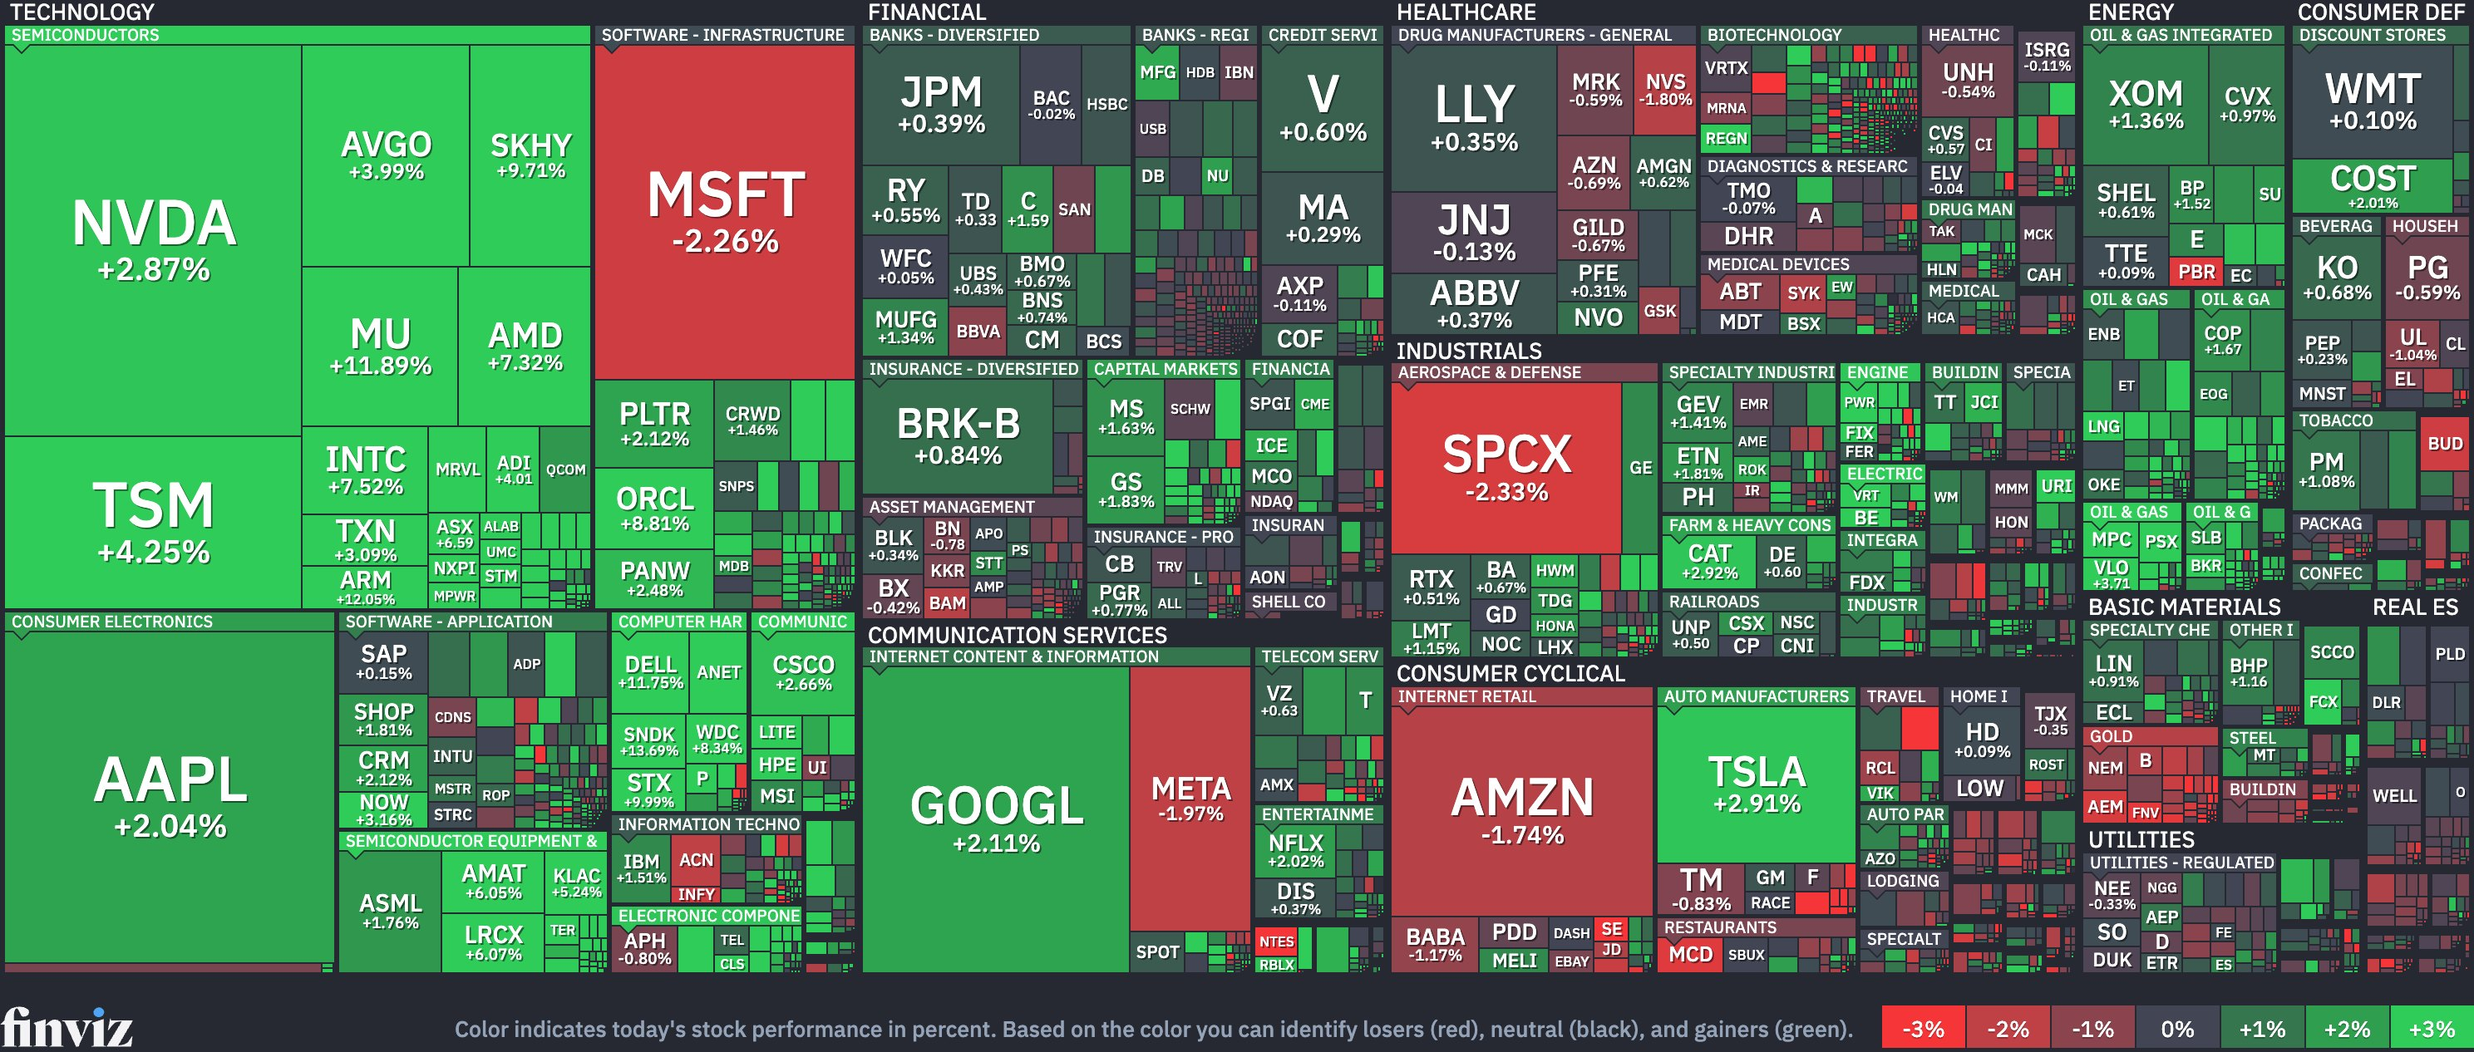
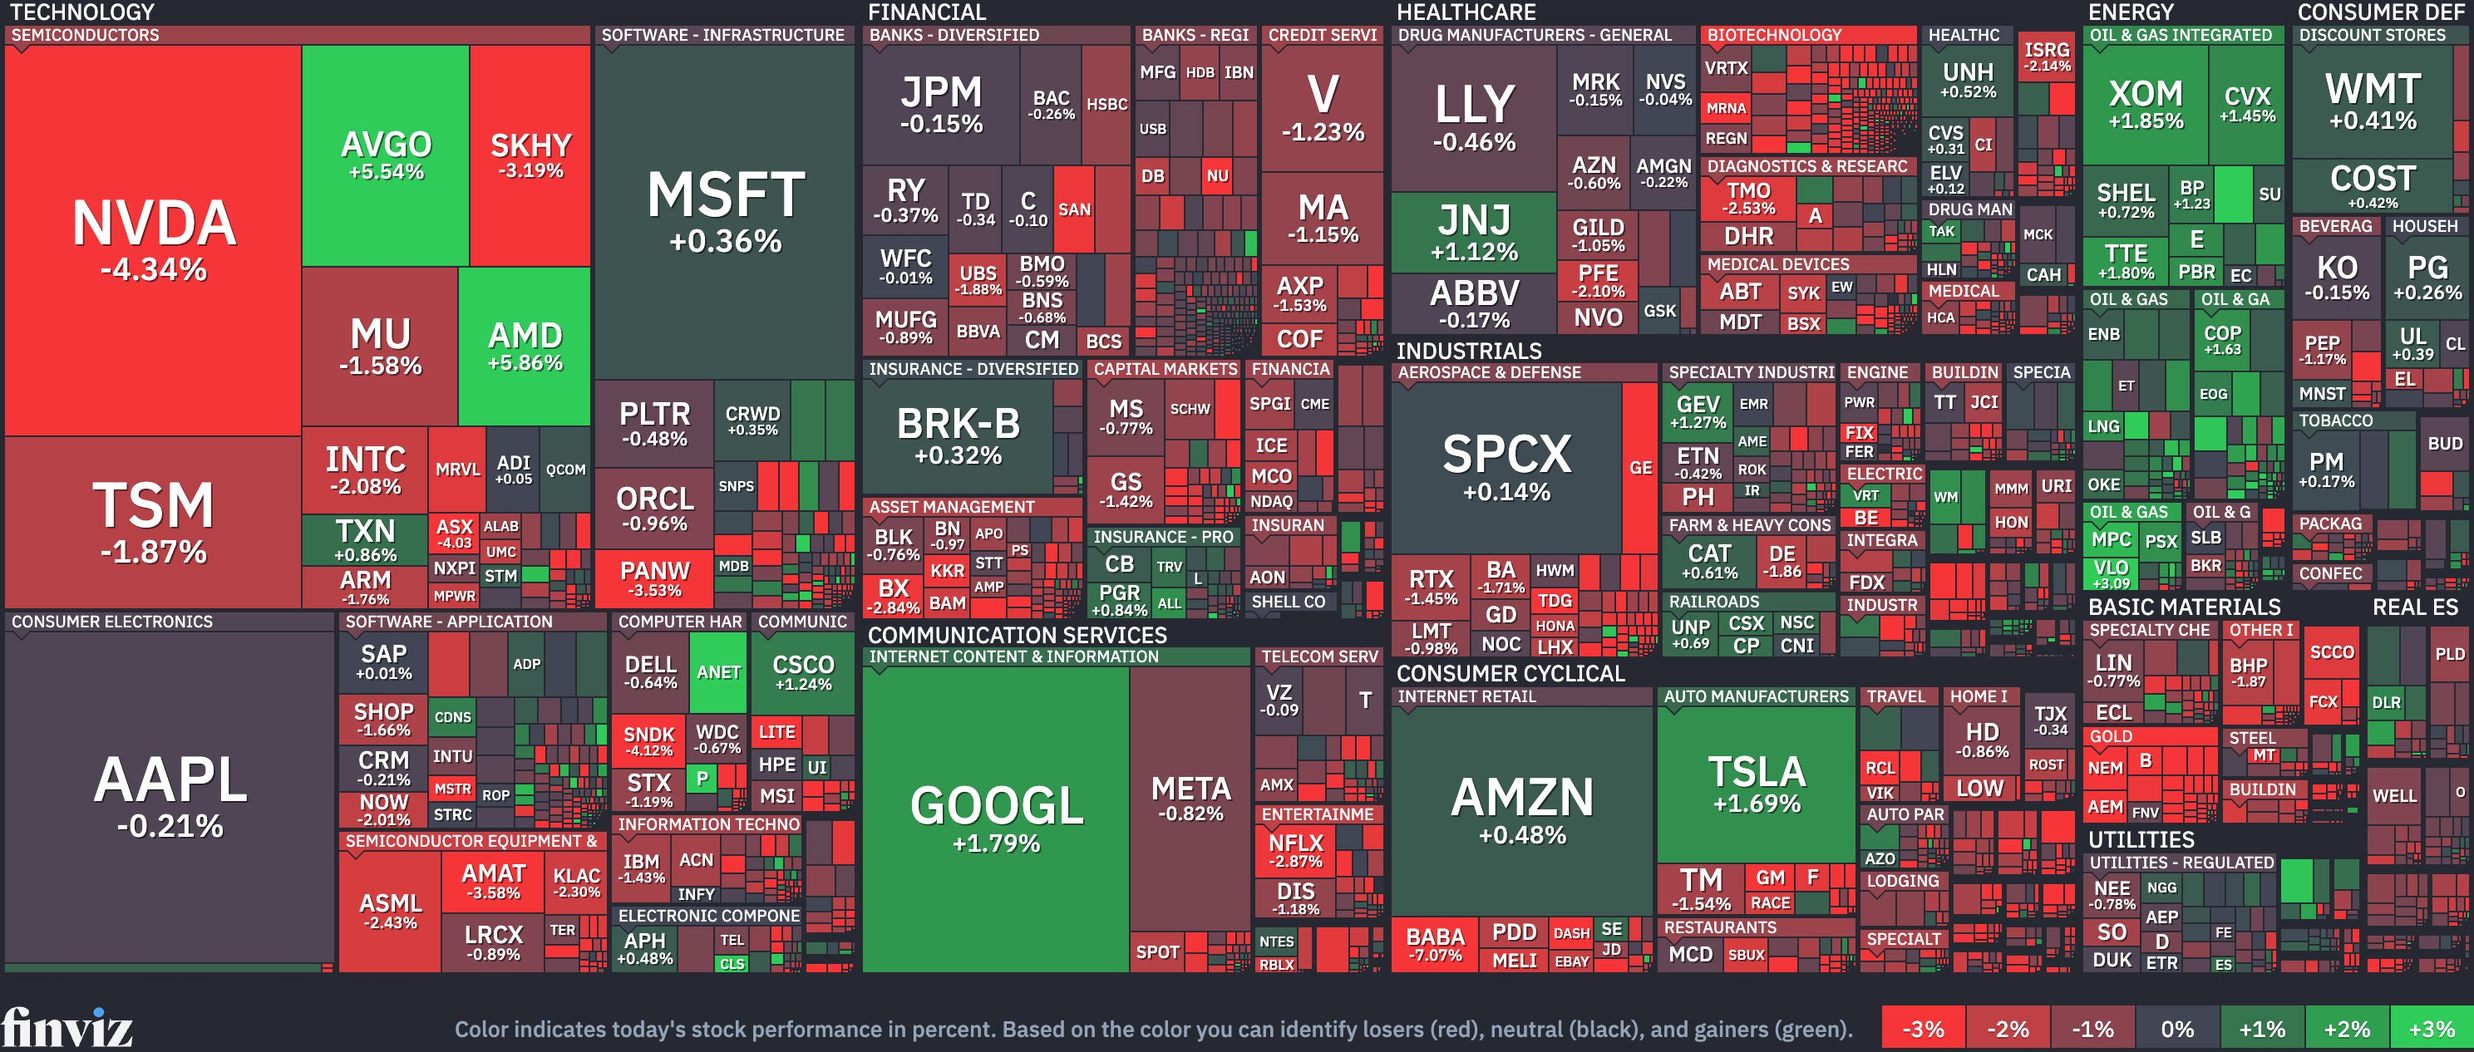
STOCK MAP 갱신 Thu NOV 12, 4:01 PM ET

diff --git a/index.html b/index.html
@@ -117,7 +117,7 @@ footer{margin-top:34px;font-size:12px;color:#7A867C;text-align:center;line-heigh
 <div class="hd"><div class="kicker">STRUCTURE &amp; BOTTLENECKS</div><h1>Report Vault</h1>
 <p>매크로·산업·기업 분석 기록을 모아 읽는 보고서 자료실.</p></div>
 <div class="board"><div class="bhd"><span class="bt">MARKET BOARD</span><span class="bu">11/13 06:00 KST 기준</span></div><div class="bgrid main"><div class="tile down"><div class="tl">DJIA</div><div class="tv">52,349.52</div><div class="tc">▼ −136.97<span class="tp">−0.26%</span></div><svg class="spk" viewBox="0 0 100 26" preserveAspectRatio="none" role="img" aria-label="최근 1개월 10-12→11-12 · 최저 51,285.73 · 최고 53,356.12 · +0.9%"><title>최근 1개월 10-12→11-12 · 최저 51,285.73 · 최고 53,356.12 · +0.9%</title><polygon points="0,26 0.0,18.0 4.3,19.9 8.7,20.4 13.0,14.5 17.4,16.4 21.7,16.8 26.1,11.1 30.4,7.3 34.8,7.2 39.1,14.1 43.5,12.6 47.8,12.4 52.2,11.4 56.5,12.8 60.9,18.9 65.2,16.6 69.6,18.7 73.9,2.0 78.3,21.5 82.6,24.0 87.0,12.3 91.3,13.9 95.7,11.2 100.0,13.2 100,26" fill="#1F8A5B" fill-opacity=".10"/><polyline points="0.0,18.0 4.3,19.9 8.7,20.4 13.0,14.5 17.4,16.4 21.7,16.8 26.1,11.1 30.4,7.3 34.8,7.2 39.1,14.1 43.5,12.6 47.8,12.4 52.2,11.4 56.5,12.8 60.9,18.9 65.2,16.6 69.6,18.7 73.9,2.0 78.3,21.5 82.6,24.0 87.0,12.3 91.3,13.9 95.7,11.2 100.0,13.2" fill="none" stroke="#1F8A5B" stroke-width="1.6" vector-effect="non-scaling-stroke" stroke-linejoin="round"/></svg><span class="ta">TradingView · 3:59 PM EST</span></div><div class="tile down"><div class="tl">S&amp;P 500</div><div class="tv">7,592.23</div><div class="tc">▼ −27.15<span class="tp">−0.36%</span></div><svg class="spk" viewBox="0 0 100 26" preserveAspectRatio="none" role="img" aria-label="최근 1개월 10-12→11-12 · 최저 7,353.73 · 최고 7,807.24 · -2.7%"><title>최근 1개월 10-12→11-12 · 최저 7,353.73 · 최고 7,807.24 · -2.7%</title><polygon points="0,26 0.0,2.0 4.3,2.1 8.7,6.3 13.0,5.1 17.4,9.2 21.7,7.7 26.1,6.6 30.4,4.4 34.8,9.0 39.1,10.9 43.5,8.3 47.8,6.1 52.2,5.1 56.5,6.2 60.9,13.0 65.2,14.9 69.6,13.6 73.9,7.8 78.3,24.0 82.6,22.9 87.0,14.5 91.3,15.9 95.7,11.1 100.0,12.4 100,26" fill="#C0442E" fill-opacity=".10"/><polyline points="0.0,2.0 4.3,2.1 8.7,6.3 13.0,5.1 17.4,9.2 21.7,7.7 26.1,6.6 30.4,4.4 34.8,9.0 39.1,10.9 43.5,8.3 47.8,6.1 52.2,5.1 56.5,6.2 60.9,13.0 65.2,14.9 69.6,13.6 73.9,7.8 78.3,24.0 82.6,22.9 87.0,14.5 91.3,15.9 95.7,11.1 100.0,12.4" fill="none" stroke="#C0442E" stroke-width="1.6" vector-effect="non-scaling-stroke" stroke-linejoin="round"/></svg><span class="ta">TradingView · 3:59 PM EST</span></div><div class="tile down"><div class="tl">NASDAQ</div><div class="tv">25,331.736</div><div class="tc">▼ −134.453<span class="tp">−0.53%</span></div><svg class="spk" viewBox="0 0 100 26" preserveAspectRatio="none" role="img" aria-label="최근 1개월 10-12→11-12 · 최저 24,315.00 · 최고 27,245.90 · -6.9%"><title>최근 1개월 10-12→11-12 · 최저 24,315.00 · 최고 27,245.90 · -6.9%</title><polygon points="0,26 0.0,2.0 4.3,2.3 8.7,6.2 13.0,6.0 17.4,10.3 21.7,8.1 26.1,8.2 30.4,6.1 34.8,11.3 39.1,11.7 43.5,10.1 47.8,7.8 52.2,7.2 56.5,10.0 60.9,15.6 65.2,17.6 69.6,16.1 73.9,13.3 78.3,24.0 82.6,22.0 87.0,17.0 91.3,18.4 95.7,15.4 100.0,16.1 100,26" fill="#C0442E" fill-opacity=".10"/><polyline points="0.0,2.0 4.3,2.3 8.7,6.2 13.0,6.0 17.4,10.3 21.7,8.1 26.1,8.2 30.4,6.1 34.8,11.3 39.1,11.7 43.5,10.1 47.8,7.8 52.2,7.2 56.5,10.0 60.9,15.6 65.2,17.6 69.6,16.1 73.9,13.3 78.3,24.0 82.6,22.0 87.0,17.0 91.3,18.4 95.7,15.4 100.0,16.1" fill="none" stroke="#C0442E" stroke-width="1.6" vector-effect="non-scaling-stroke" stroke-linejoin="round"/></svg><span class="ta">TradingView · 3:59 PM EST</span></div><div class="tile down"><div class="tl">RUSSELL 2000</div><div class="tv">2,800.21</div><div class="tc">▼ −46.05<span class="tp">−1.62%</span></div><svg class="spk" viewBox="0 0 100 26" preserveAspectRatio="none" role="img" aria-label="최근 1개월 10-12→11-12 · 최저 2,721.37 · 최고 2,859.22 · +0.3%"><title>최근 1개월 10-12→11-12 · 최저 2,721.37 · 최고 2,859.22 · +0.3%</title><polygon points="0,26 0.0,12.3 4.3,14.1 8.7,22.7 13.0,16.7 17.4,24.0 21.7,22.9 26.1,15.7 30.4,14.5 34.8,14.0 39.1,15.3 43.5,13.6 47.8,8.4 52.2,6.6 56.5,2.0 60.9,9.6 65.2,10.5 69.6,9.5 73.9,2.4 78.3,22.6 82.6,18.8 87.0,4.9 91.3,8.0 95.7,4.1 100.0,11.1 100,26" fill="#1F8A5B" fill-opacity=".10"/><polyline points="0.0,12.3 4.3,14.1 8.7,22.7 13.0,16.7 17.4,24.0 21.7,22.9 26.1,15.7 30.4,14.5 34.8,14.0 39.1,15.3 43.5,13.6 47.8,8.4 52.2,6.6 56.5,2.0 60.9,9.6 65.2,10.5 69.6,9.5 73.9,2.4 78.3,22.6 82.6,18.8 87.0,4.9 91.3,8.0 95.7,4.1 100.0,11.1" fill="none" stroke="#1F8A5B" stroke-width="1.6" vector-effect="non-scaling-stroke" stroke-linejoin="round"/></svg><span class="ta">TradingView · 3:59 PM EST</span></div><div class="tile up"><div class="tl">US 10-YR</div><div class="tv">5.121%</div><div class="tc">▲ +0.121</div><svg class="spk" viewBox="0 0 100 26" preserveAspectRatio="none" role="img" aria-label="최근 1개월 10-12→11-12 · 최저 4.84 · 최고 5.24 · -2.6%"><title>최근 1개월 10-12→11-12 · 최저 4.84 · 최고 5.24 · -2.6%</title><polygon points="0,26 0.0,2.0 4.3,3.3 8.7,4.7 13.0,10.2 17.4,9.8 21.7,7.7 26.1,8.7 30.4,7.1 34.8,17.7 39.1,15.8 43.5,15.9 47.8,15.5 52.2,12.6 56.5,15.7 60.9,19.0 65.2,20.9 69.6,17.7 73.9,20.9 78.3,24.0 82.6,22.8 87.0,22.5 91.3,16.0 95.7,15.2 100.0,9.5 100,26" fill="#C0442E" fill-opacity=".10"/><polyline points="0.0,2.0 4.3,3.3 8.7,4.7 13.0,10.2 17.4,9.8 21.7,7.7 26.1,8.7 30.4,7.1 34.8,17.7 39.1,15.8 43.5,15.9 47.8,15.5 52.2,12.6 56.5,15.7 60.9,19.0 65.2,20.9 69.6,17.7 73.9,20.9 78.3,24.0 82.6,22.8 87.0,22.5 91.3,16.0 95.7,15.2 100.0,9.5" fill="none" stroke="#C0442E" stroke-width="1.6" vector-effect="non-scaling-stroke" stroke-linejoin="round"/></svg><span class="ta">TradingView · 3:59 PM EST</span></div><div class="tile up"><div class="tl">US 2-YR</div><div class="tv">4.877%</div><div class="tc">▲ +0.131</div><svg class="spk" viewBox="0 0 100 26" preserveAspectRatio="none" role="img" aria-label="최근 1개월 10-13→11-09 · 최저 4.46 · 최고 4.82 · -4.8%"><title>최근 1개월 10-13→11-09 · 최저 4.46 · 최고 4.82 · -4.8%</title><polygon points="0,26 0.0,3.8 5.3,2.0 10.5,5.1 15.8,6.9 21.1,5.1 26.3,3.8 31.6,2.6 36.8,12.4 42.1,9.9 47.4,10.6 52.6,9.3 57.9,11.2 63.2,14.8 68.4,17.9 73.7,16.1 78.9,14.8 84.2,16.7 89.5,24.0 94.7,20.9 100.0,17.9 100,26" fill="#C0442E" fill-opacity=".10"/><polyline points="0.0,3.8 5.3,2.0 10.5,5.1 15.8,6.9 21.1,5.1 26.3,3.8 31.6,2.6 36.8,12.4 42.1,9.9 47.4,10.6 52.6,9.3 57.9,11.2 63.2,14.8 68.4,17.9 73.7,16.1 78.9,14.8 84.2,16.7 89.5,24.0 94.7,20.9 100.0,17.9" fill="none" stroke="#C0442E" stroke-width="1.6" vector-effect="non-scaling-stroke" stroke-linejoin="round"/></svg><span class="ta">TradingView · 3:59 PM EST<span class="tx" title="3차 FRED 4.560%(11/9) 대비 0.32%p 괴리">⚠대조</span></span></div><div class="tile down"><div class="tl">GOLD</div><div class="tv">3,884.20</div><div class="tc">▼ −116.30<span class="tp">−2.91%</span></div><svg class="spk" viewBox="0 0 100 26" preserveAspectRatio="none" role="img" aria-label="최근 1개월 10-12→11-12 · 최저 3,882.40 · 최고 4,190.60 · -7.4%"><title>최근 1개월 10-12→11-12 · 최저 3,882.40 · 최고 4,190.60 · -7.4%</title><polygon points="0,26 0.0,2.0 4.3,2.9 8.7,7.9 13.0,3.5 17.4,2.7 21.7,4.2 26.1,5.4 30.4,4.9 34.8,11.3 39.1,15.0 43.5,12.9 47.8,10.3 52.2,11.9 56.5,13.4 60.9,22.8 65.2,17.8 69.6,19.9 73.9,10.4 78.3,7.5 82.6,10.3 87.0,7.4 91.3,13.4 95.7,15.6 100.0,24.0 100,26" fill="#C0442E" fill-opacity=".10"/><polyline points="0.0,2.0 4.3,2.9 8.7,7.9 13.0,3.5 17.4,2.7 21.7,4.2 26.1,5.4 30.4,4.9 34.8,11.3 39.1,15.0 43.5,12.9 47.8,10.3 52.2,11.9 56.5,13.4 60.9,22.8 65.2,17.8 69.6,19.9 73.9,10.4 78.3,7.5 82.6,10.3 87.0,7.4 91.3,13.4 95.7,15.6 100.0,24.0" fill="none" stroke="#C0442E" stroke-width="1.6" vector-effect="non-scaling-stroke" stroke-linejoin="round"/></svg><span class="ta">TradingView · 3:59 PM EST</span></div><div class="tile up"><div class="tl">OIL</div><div class="tv">88.98</div><div class="tc">▲ +2.45<span class="tp">+2.83%</span></div><svg class="spk" viewBox="0 0 100 26" preserveAspectRatio="none" role="img" aria-label="최근 1개월 10-12→11-12 · 최저 86.04 · 최고 104.12 · -5.2%"><title>최근 1개월 10-12→11-12 · 최저 86.04 · 최고 104.12 · -5.2%</title><polygon points="0,26 0.0,14.6 4.3,14.1 8.7,13.0 13.0,9.5 17.4,5.3 21.7,2.6 26.1,4.8 30.4,10.5 34.8,7.7 39.1,3.0 43.5,4.9 47.8,7.1 52.2,3.6 56.5,4.6 60.9,2.0 65.2,11.3 69.6,11.8 73.9,21.5 78.3,18.5 82.6,18.2 87.0,23.0 91.3,24.0 95.7,23.4 100.0,20.5 100,26" fill="#C0442E" fill-opacity=".10"/><polyline points="0.0,14.6 4.3,14.1 8.7,13.0 13.0,9.5 17.4,5.3 21.7,2.6 26.1,4.8 30.4,10.5 34.8,7.7 39.1,3.0 43.5,4.9 47.8,7.1 52.2,3.6 56.5,4.6 60.9,2.0 65.2,11.3 69.6,11.8 73.9,21.5 78.3,18.5 82.6,18.2 87.0,23.0 91.3,24.0 95.7,23.4 100.0,20.5" fill="none" stroke="#C0442E" stroke-width="1.6" vector-effect="non-scaling-stroke" stroke-linejoin="round"/></svg><span class="ta">TradingView · 3:59 PM EST</span></div></div><div class="bgrid risk"><div class="tile up"><div class="tl">F&amp;G</div><div class="tv">40</div><div class="tc">▲ +3<span class="tg fg-f">공포</span></div><svg class="spk" viewBox="0 0 100 26" preserveAspectRatio="none" role="img" aria-label="최근 1개월 10-12→11-12 · 최저 16.69 · 최고 45.60 · -11.3%"><title>최근 1개월 10-12→11-12 · 최저 16.69 · 최고 45.60 · -11.3%</title><polygon points="0,26 0.0,2.3 4.3,2.0 8.7,14.8 13.0,12.3 17.4,22.8 21.7,21.9 26.1,14.8 30.4,13.7 34.8,21.5 39.1,24.0 43.5,14.0 47.8,11.7 52.2,10.5 56.5,13.3 60.9,16.7 65.2,21.9 69.6,18.8 73.9,10.7 78.3,21.5 82.6,18.2 87.0,12.7 91.3,8.3 95.7,9.4 100.0,6.2 100,26" fill="#C0442E" fill-opacity=".10"/><polyline points="0.0,2.3 4.3,2.0 8.7,14.8 13.0,12.3 17.4,22.8 21.7,21.9 26.1,14.8 30.4,13.7 34.8,21.5 39.1,24.0 43.5,14.0 47.8,11.7 52.2,10.5 56.5,13.3 60.9,16.7 65.2,21.9 69.6,18.8 73.9,10.7 78.3,21.5 82.6,18.2 87.0,12.7 91.3,8.3 95.7,9.4 100.0,6.2" fill="none" stroke="#C0442E" stroke-width="1.6" vector-effect="non-scaling-stroke" stroke-linejoin="round"/></svg><span class="ta">CNN · 11/12</span></div><div class="tile up"><div class="tl">VIX</div><div class="tv">18.89</div><div class="tc">▲ +1.40<span class="tp">+8.00%</span></div><svg class="spk" viewBox="0 0 100 26" preserveAspectRatio="none" role="img" aria-label="최근 1개월 10-12→11-12 · 최저 15.21 · 최고 28.18 · +24.2%"><title>최근 1개월 10-12→11-12 · 최저 15.21 · 최고 28.18 · +24.2%</title><polygon points="0,26 0.0,24.0 4.3,23.9 8.7,21.2 13.0,21.9 17.4,15.9 21.7,18.5 26.1,20.4 30.4,21.5 34.8,17.5 39.1,16.8 43.5,18.6 47.8,20.1 52.2,21.1 56.5,20.6 60.9,16.9 65.2,13.9 69.6,14.5 73.9,21.6 78.3,2.0 82.6,6.3 87.0,16.0 91.3,16.8 95.7,20.1 100.0,17.8 100,26" fill="#1F8A5B" fill-opacity=".10"/><polyline points="0.0,24.0 4.3,23.9 8.7,21.2 13.0,21.9 17.4,15.9 21.7,18.5 26.1,20.4 30.4,21.5 34.8,17.5 39.1,16.8 43.5,18.6 47.8,20.1 52.2,21.1 56.5,20.6 60.9,16.9 65.2,13.9 69.6,14.5 73.9,21.6 78.3,2.0 82.6,6.3 87.0,16.0 91.3,16.8 95.7,20.1 100.0,17.8" fill="none" stroke="#1F8A5B" stroke-width="1.6" vector-effect="non-scaling-stroke" stroke-linejoin="round"/></svg><span class="ta">TradingView · 3:59 PM EST</span></div><div class="tile down"><div class="tl">BITCOIN</div><div class="tv">71,382</div><div class="tc">▼ −2,533<span class="tp">−3.43%</span></div><svg class="spk" viewBox="0 0 100 26" preserveAspectRatio="none" role="img" aria-label="최근 1개월 10-11→11-12 · 최저 71,388.16 · 최고 84,011.97 · -14.7%"><title>최근 1개월 10-11→11-12 · 최저 71,388.16 · 최고 84,011.97 · -14.7%</title><polygon points="0,26 0.0,2.6 3.1,5.9 6.2,3.6 9.4,6.3 12.5,5.3 15.6,6.4 18.8,6.6 21.9,5.5 25.0,5.8 28.1,3.9 31.2,2.0 34.4,6.7 37.5,7.1 40.6,7.6 43.8,8.9 46.9,9.0 50.0,7.6 53.1,6.8 56.2,12.9 59.4,13.9 62.5,13.5 65.6,12.0 68.8,14.8 71.9,13.6 75.0,8.3 78.1,16.1 81.2,16.4 84.4,16.4 87.5,18.4 90.6,17.3 93.8,19.9 96.9,19.5 100.0,24.0 100,26" fill="#C0442E" fill-opacity=".10"/><polyline points="0.0,2.6 3.1,5.9 6.2,3.6 9.4,6.3 12.5,5.3 15.6,6.4 18.8,6.6 21.9,5.5 25.0,5.8 28.1,3.9 31.2,2.0 34.4,6.7 37.5,7.1 40.6,7.6 43.8,8.9 46.9,9.0 50.0,7.6 53.1,6.8 56.2,12.9 59.4,13.9 62.5,13.5 65.6,12.0 68.8,14.8 71.9,13.6 75.0,8.3 78.1,16.1 81.2,16.4 84.4,16.4 87.5,18.4 90.6,17.3 93.8,19.9 96.9,19.5 100.0,24.0" fill="none" stroke="#C0442E" stroke-width="1.6" vector-effect="non-scaling-stroke" stroke-linejoin="round"/></svg><span class="ta">TradingView · 3:59 PM EST</span></div><div class="tile down"><div class="tl">USD/KRW</div><div class="tv">1,334.90</div><div class="tc">▼ −3.91<span class="tp">−0.29%</span></div><svg class="spk" viewBox="0 0 100 26" preserveAspectRatio="none" role="img" aria-label="최근 1개월 10-12→11-12 · 최저 1,321.76 · 최고 1,362.70 · -0.4%"><title>최근 1개월 10-12→11-12 · 최저 1,321.76 · 최고 1,362.70 · -0.4%</title><polygon points="0,26 0.0,13.7 4.3,17.4 8.7,14.0 13.0,14.5 17.4,13.7 21.7,17.7 26.1,19.6 30.4,22.8 34.8,21.9 39.1,21.7 43.5,24.0 47.8,22.4 52.2,21.3 56.5,14.0 60.9,15.3 65.2,22.0 69.6,11.6 73.9,12.6 78.3,14.2 82.6,5.4 87.0,2.0 91.3,12.1 95.7,13.2 100.0,16.7 100,26" fill="#C0442E" fill-opacity=".10"/><polyline points="0.0,13.7 4.3,17.4 8.7,14.0 13.0,14.5 17.4,13.7 21.7,17.7 26.1,19.6 30.4,22.8 34.8,21.9 39.1,21.7 43.5,24.0 47.8,22.4 52.2,21.3 56.5,14.0 60.9,15.3 65.2,22.0 69.6,11.6 73.9,12.6 78.3,14.2 82.6,5.4 87.0,2.0 91.3,12.1 95.7,13.2 100.0,16.7" fill="none" stroke="#C0442E" stroke-width="1.6" vector-effect="non-scaling-stroke" stroke-linejoin="round"/></svg><span class="ta">TradingView · 3:59 PM EST</span></div><div class="tile up"><div class="tl">DOLLAR INDEX</div><div class="tv">103.16</div><div class="tc">▲ +0.32<span class="tp">+0.31%</span></div><svg class="spk" viewBox="0 0 100 26" preserveAspectRatio="none" role="img" aria-label="최근 1개월 10-12→11-12 · 최저 101.51 · 최고 103.17 · +0.6%"><title>최근 1개월 10-12→11-12 · 최저 101.51 · 최고 103.17 · +0.6%</title><polygon points="0,26 0.0,9.8 4.3,15.1 8.7,10.2 13.0,17.5 17.4,19.6 21.7,17.8 26.1,21.1 30.4,20.4 34.8,22.7 39.1,20.0 43.5,18.0 47.8,13.3 52.2,15.0 56.5,17.0 60.9,19.1 65.2,20.8 69.6,19.2 73.9,24.0 78.3,23.5 82.6,13.5 87.0,22.1 91.3,14.5 95.7,5.5 100.0,2.0 100,26" fill="#1F8A5B" fill-opacity=".10"/><polyline points="0.0,9.8 4.3,15.1 8.7,10.2 13.0,17.5 17.4,19.6 21.7,17.8 26.1,21.1 30.4,20.4 34.8,22.7 39.1,20.0 43.5,18.0 47.8,13.3 52.2,15.0 56.5,17.0 60.9,19.1 65.2,20.8 69.6,19.2 73.9,24.0 78.3,23.5 82.6,13.5 87.0,22.1 91.3,14.5 95.7,5.5 100.0,2.0" fill="none" stroke="#1F8A5B" stroke-width="1.6" vector-effect="non-scaling-stroke" stroke-linejoin="round"/></svg><span class="ta">TradingView · 3:59 PM EST</span></div><div class="tile down"><div class="tl">RPONTSYD</div><div class="tv">$0.001B</div><div class="tc">▼ −0.001</div><svg class="spk" viewBox="0 0 100 26" preserveAspectRatio="none" role="img" aria-label="최근 1개월 10-13→11-12 · 최저 0.00 · 최고 0.11"><title>최근 1개월 10-13→11-12 · 최저 0.00 · 최고 0.11</title><polygon points="0,26 0.0,24.0 4.8,23.8 9.5,2.0 14.3,24.0 19.0,21.8 23.8,24.0 28.6,24.0 33.3,23.8 38.1,24.0 42.9,23.6 47.6,23.8 52.4,23.6 57.1,21.8 61.9,24.0 66.7,23.6 71.4,24.0 76.2,24.0 81.0,24.0 85.7,24.0 90.5,23.4 95.2,23.6 100.0,23.8 100,26" fill="#1F8A5B" fill-opacity=".10"/><polyline points="0.0,24.0 4.8,23.8 9.5,2.0 14.3,24.0 19.0,21.8 23.8,24.0 28.6,24.0 33.3,23.8 38.1,24.0 42.9,23.6 47.6,23.8 52.4,23.6 57.1,21.8 61.9,24.0 66.7,23.6 71.4,24.0 76.2,24.0 81.0,24.0 85.7,24.0 90.5,23.4 95.2,23.6 100.0,23.8" fill="none" stroke="#1F8A5B" stroke-width="1.6" vector-effect="non-scaling-stroke" stroke-linejoin="round"/></svg><span class="ta">FRED · 11/12</span></div></div></div>
-<div class="smap"><div class="bhd"><span class="bt">STOCK MAP</span><span class="bu">finviz · Wed NOV 11, 6:18 PM ET 기준</span></div><a href="https://finviz.com/map?t=sec_all" target="_blank" rel="noopener noreferrer"><img src="stockmap/stock_map.jpg?v=1794439118" alt="S&amp;P 섹터 지도(finviz)" loading="lazy"></a></div>
+<div class="smap"><div class="bhd"><span class="bt">STOCK MAP</span><span class="bu">finviz · Thu NOV 12, 4:01 PM ET 기준</span></div><a href="https://finviz.com/map?t=sec_all" target="_blank" rel="noopener noreferrer"><img src="stockmap/stock_map.jpg?v=1794517279" alt="S&amp;P 섹터 지도(finviz)" loading="lazy"></a></div>
 <div class="launch"><div class="bhd"><span class="bt">DASHBOARDS</span></div><div class="lgrid"><a class="lbtn" href="https://gaemi-street-journal.github.io/secz-star-map/" target="_blank" rel="noopener noreferrer"><span class="li">✦</span><span class="lt"><b>SECZ 경쟁·협업 별 지도</b><small>시청자 공개판 · 생애주기 9단계 · 새 창</small></span><span class="la">→</span></a><a class="lbtn" href="reports/2026-11-11_iren-infrastructure-globe.html"><span class="li">◎</span><span class="lt"><b>IREN 데이터센터 지구본</b><small>사이트·정치 규제 반영 · 시간 탭 · 최신 11/11</small></span><span class="la">→</span></a><a class="lbtn" href="reports/iren-infrastructure.html"><span class="li">▦</span><span class="lt"><b>IREN 인프라 대시보드</b><small>부지 × 단계 색 칸 · 매일 원장에서 생성 · 고정 주소</small></span><span class="la">→</span></a><a class="lbtn" href="reports/iren-financials.html"><span class="li">▤</span><span class="lt"><b>IREN 재무 대시보드</b><small>분기 공시판 · FY26 확정 · FY27 전망 · 자금조달</small></span><span class="la">→</span></a><a class="lbtn" href="reports/2026-10-12_ai-money-flow-map.html"><span class="li">≈</span><span class="lt"><b>AI 돈의 흐름 지도</b><small>v0.3.1 · 광고주 노드 · 5층 접기 · 자금 원장 · 회수 게이지 2.0</small></span><span class="la">→</span></a><a class="lbtn" href="reports/2026-11-12_daily-brief.html"><span class="li">▤</span><span class="lt"><b>Daily-briefing</b><small>Skill-Daily 통합 보고서 · 최신 11/12</small></span><span class="la">→</span></a></div></div>
 <div class="layout">
 <aside id="nav"><button class="nav all active" data-kind="all"><span class="nm">전체</span><span class="ct">1317</span></button>
